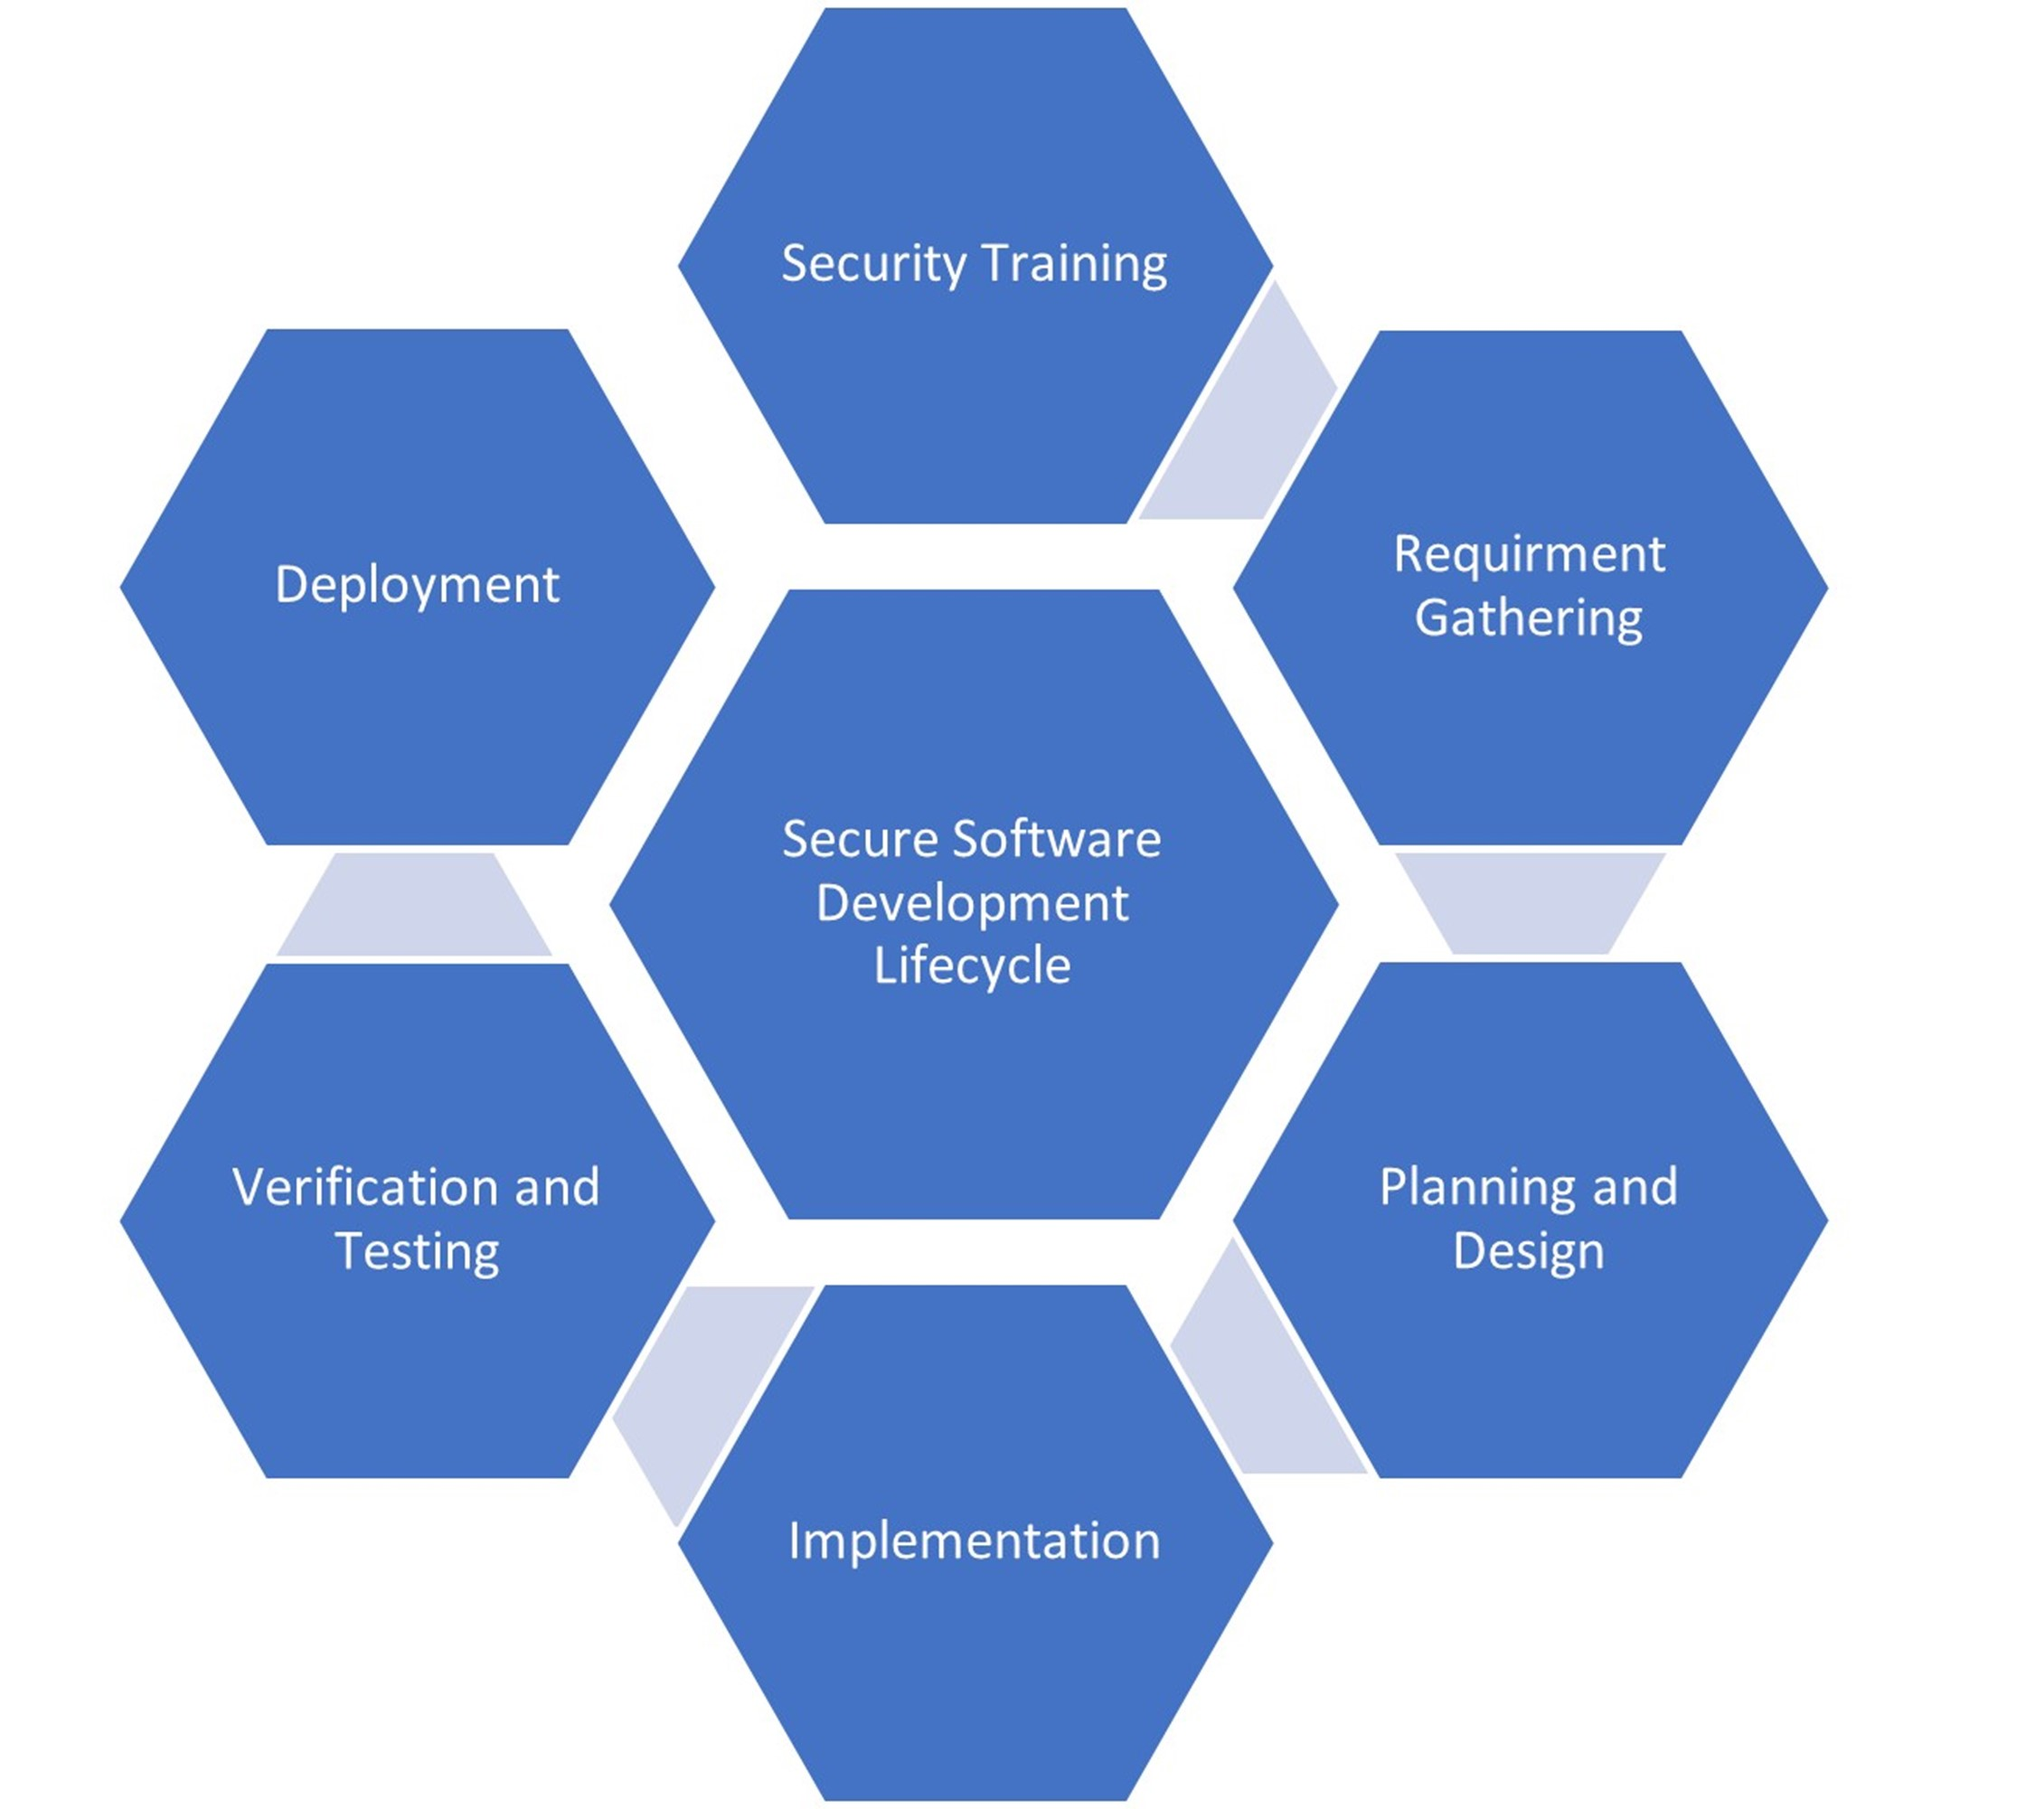
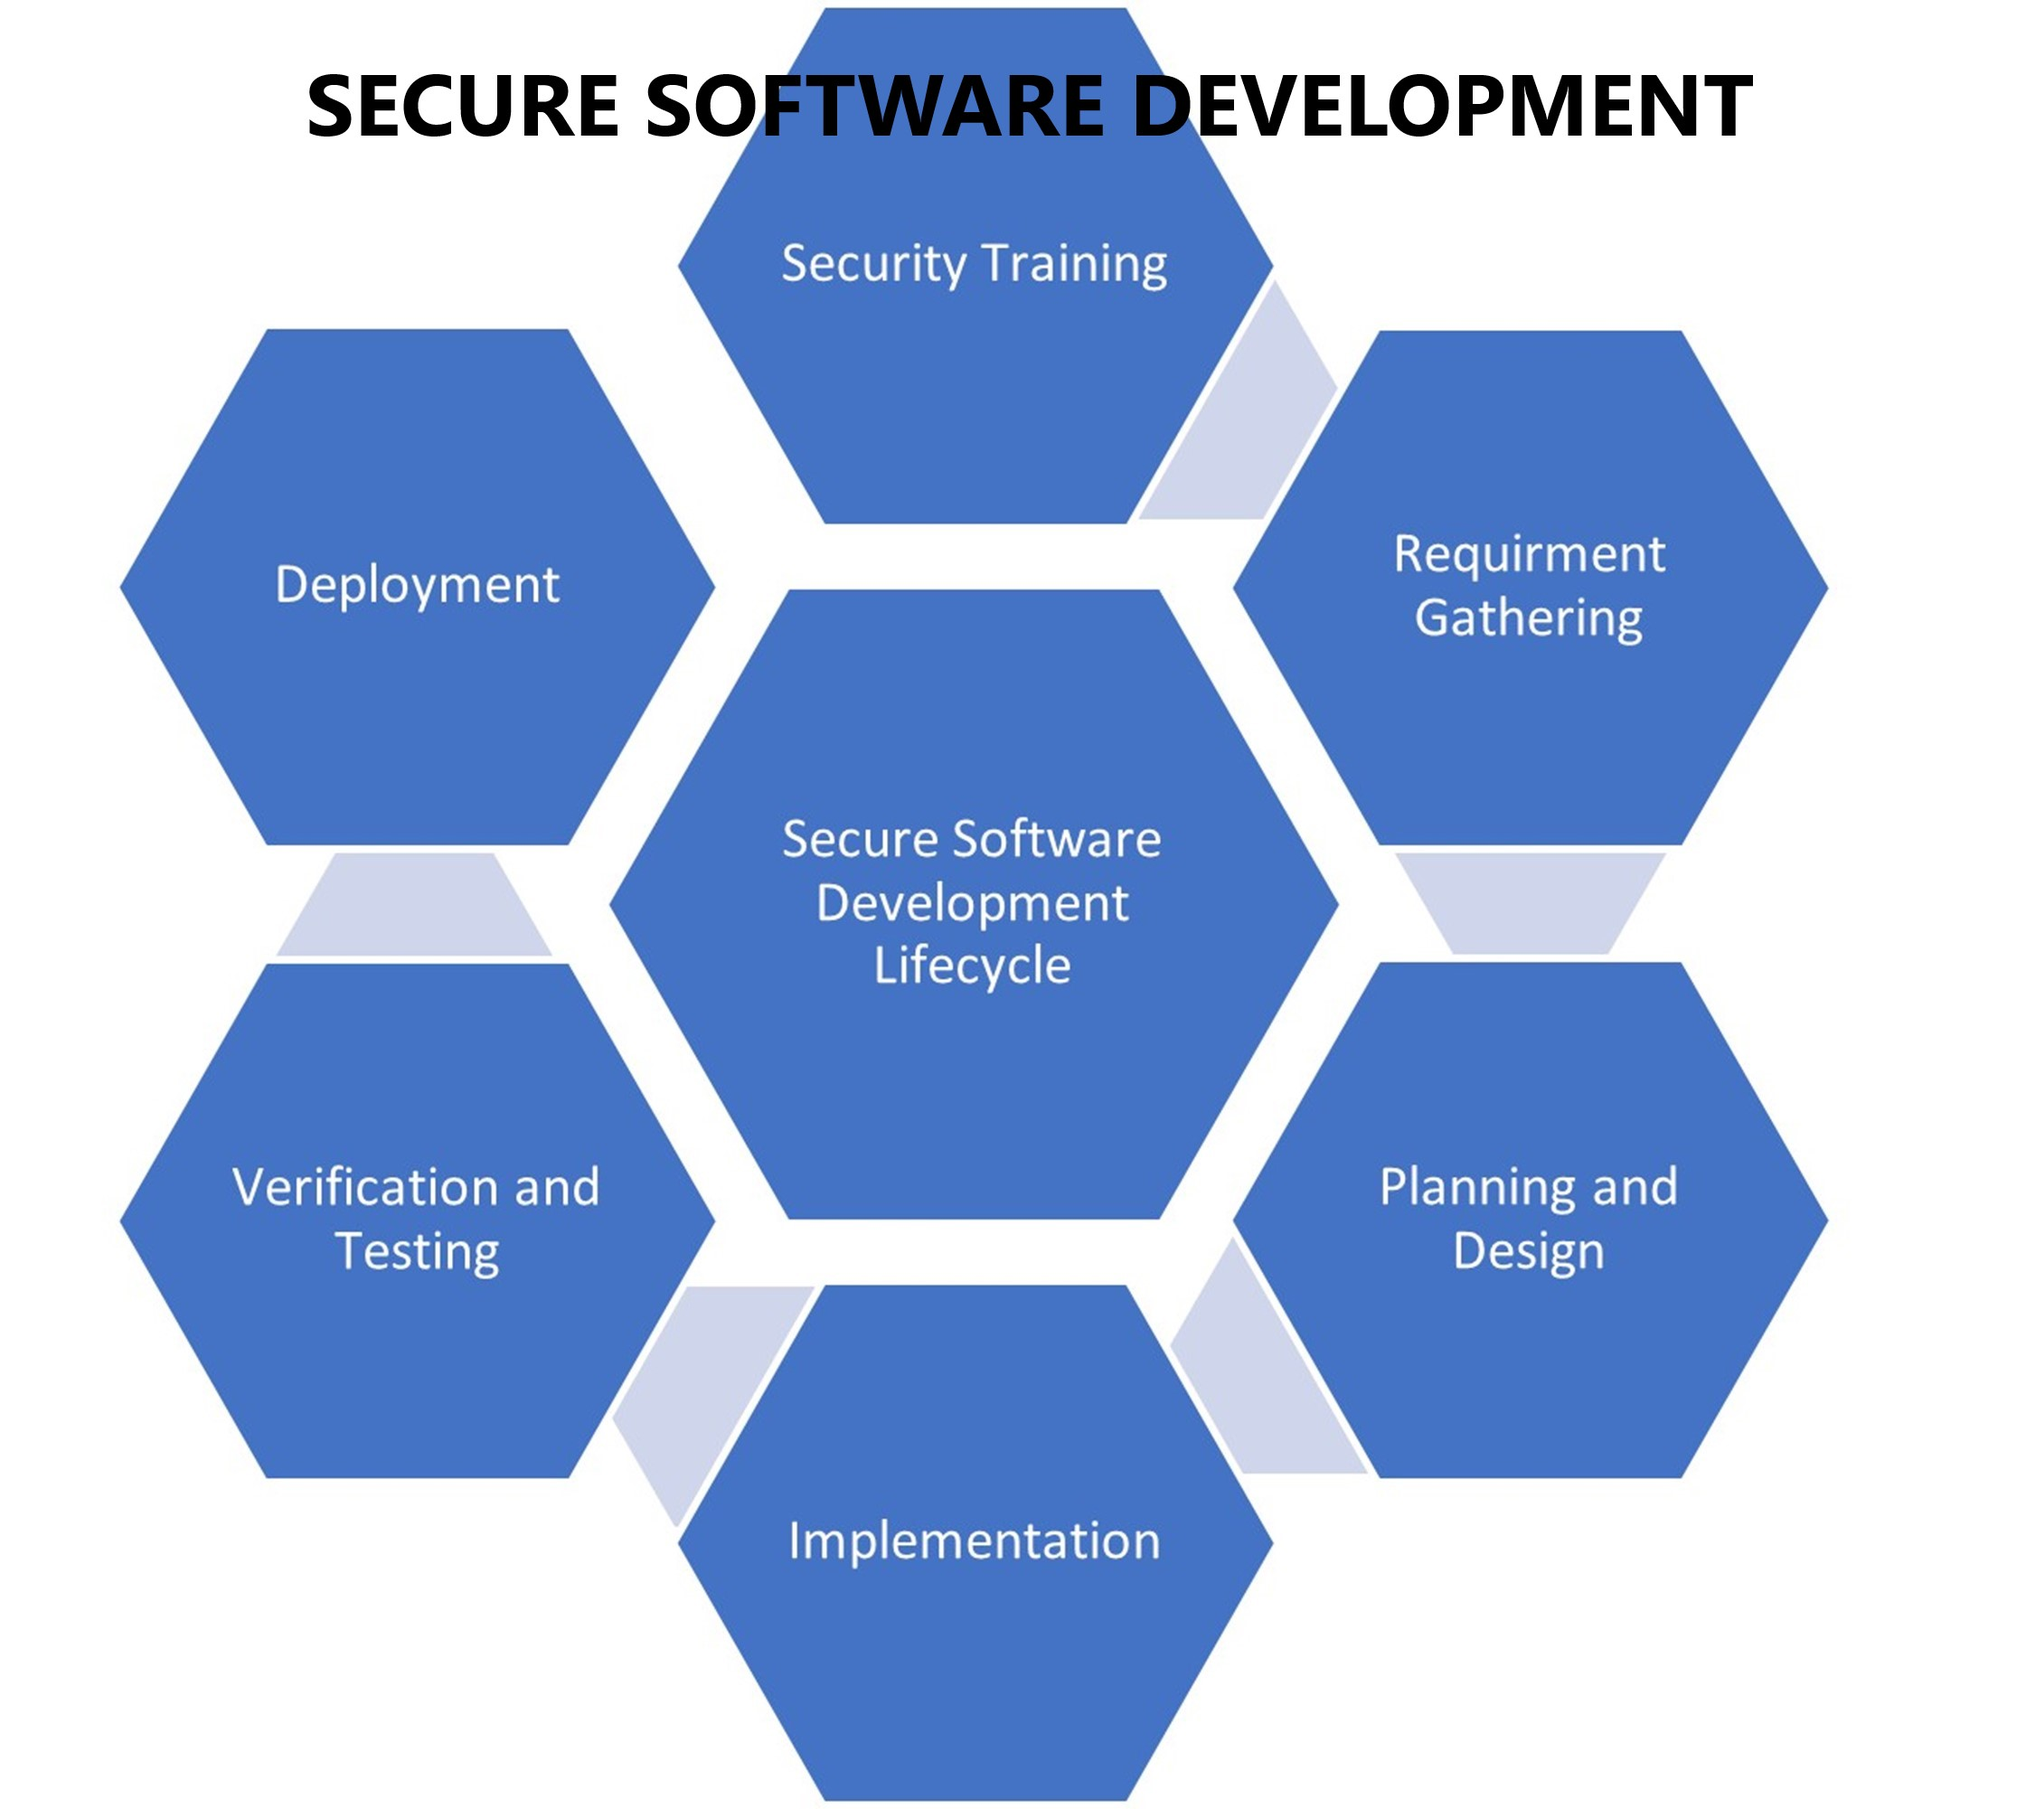
pic

Changed region(s): [[0.1562, 0.031, 0.8746, 0.093]]

diff --git a/index.html b/index.html
@@ -446,7 +446,7 @@
             <div class="portfolio-wrap">
               <img src="assets/img/portfolio/ssd.jpg" class="img-fluid" alt="">
               <div class="portfolio-links">
-                <a href="assets/img/portfolio/ssd.jpg" data-gallery="portfolioGallery" class="portfolio-lightbox" title="Secure Software Design "><i class="bx bx-plus"></i></a>
+                <a href="assets/img/portfolio/ssd.jpg" data-gallery="portfolioGallery" class="portfolio-lightbox" title="Secure Software Development "><i class="bx bx-plus"></i></a>
                 <a href="ssd.html" title="More Details"><i class="bx bx-link"></i></a>
               </div>
             </div>
